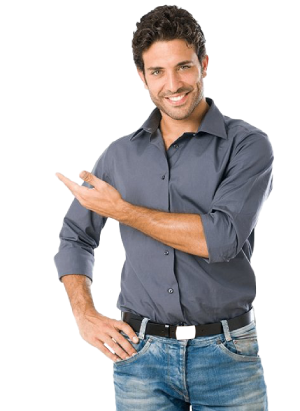
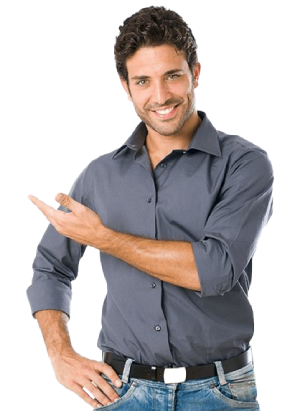
Fix png image size in the discover section

diff --git a/src/components/Discover section/0px-599px.scss b/src/components/Discover section/0px-599px.scss
@@ -6,13 +6,12 @@
     min-width: 320px;
     height: 98.792vw;
     min-height: 316.135px;
-    background: darkcyan;
     position: relative;
 
     &__brand-container {
       width: 100%;
       height: 34.718%;
-      background: rgb(0, 139, 81);
+      background: #f9f9f9;
       position: absolute;
       bottom: 0;
       left: 0;
@@ -30,7 +29,6 @@
     &__card-container {
       width: 100%;
       height: 59.657%;
-      background: darksalmon;
       position: absolute;
       top: 10.268%;
       left: 0;
@@ -41,14 +39,14 @@
     &__card-subcontainer {
       width: 188.98%;
       height: 100%;
-      background: rgb(127, 93, 141);
     }
 
     &__card-flex-container {
       width: 97.188%;
       height: 100%;
-      background: deeppink;
       margin: 0 auto;
+      display: flex;
+      justify-content: space-between;
     }
 
     &__card {
@@ -56,15 +54,15 @@
       height: 100%;
       background: #ffffff;
       border-radius: clamp(5px, 2.157vw, 15px);
-      border: 2px $c1-D solid;
+      border: 1px $c1-D solid;
       position: relative;
     }
 
     &__card-text-container {
       width: 45.757%;
-      height: 85.557%;
+      height: 80.557%;
       position: absolute;
-      top: 3.241%;
+      top: 9.025%;
       left: 7.272%;
     }
 
@@ -74,7 +72,7 @@
       font-family: $primary-font;
       font-weight: 500;
       color: $strongText;
-      font-size: clamp(16px, 3.98vw, 25px);
+      font-size: clamp(15px, 3.98vw, 25px);
       position: absolute;
       top: 0;
       left: 0;
@@ -86,16 +84,16 @@
       font-family: $primary-font;
       font-weight: 400;
       color: $lightText;
-      font-size: clamp(14px, calc(0.4em + 1.36vw), 17px);
-      line-height: 130%;
+      font-size: clamp(13px, calc(0.4em + 1.36vw), 17px);
+      line-height: 150%;
       position: absolute;
-      top: clamp(50px, 10vw, 60px);
+      top: clamp(40px, 10vw, 60px);
       left: 0;
     }
 
     &__card-button {
       width: 80.556%;
-      height: 20.521%;
+      height: 23.521%;
       background: $c1-E;
       border-radius: clamp(5px, 2.157vw, 15px);
       position: absolute;

diff --git a/src/components/Discover section/DiscoverSection.tsx b/src/components/Discover section/DiscoverSection.tsx
@@ -15,6 +15,7 @@ const DiscoverSection = () => {
             <div className="discover-section__card-container">
                 <div className="discover-section__card-subcontainer">
                     <div className="discover-section__card-flex-container">
+
                         <article className="discover-section__card">
                             <div className="discover-section__card-text-container">
                                 <h2 className="discover-section__card-title">Lorem ipsum Dolor</h2>
@@ -28,6 +29,21 @@ const DiscoverSection = () => {
                                 <img className="discover-section__card-image" src={youngMan} alt="man"/>
                             </div>
                         </article>
+
+                        <article className="discover-section__card">
+                            <div className="discover-section__card-text-container">
+                                <h2 className="discover-section__card-title">Lorem ipsum Dolor</h2>
+                                <p className="discover-section__card-paragraph">Lorem ipsum dolor amet lorem ipsum dolor amet aler</p>
+                                <div className="discover-section__card-button">
+                                    <p className="discover-section__card-button-text">All Shirts</p>
+                                </div>
+                            </div>
+                            <div className="discover-section__card-image-container">
+                                <div className="discover-section__card-image-background"></div>
+                                <img className="discover-section__card-image" src={adultMan} alt="man"/>
+                            </div>
+                        </article>
+
                     </div>
                 </div>
             </div>

diff --git a/src/components/Discover section/1025px-1920px.scss b/src/components/Discover section/1025px-1920px.scss
@@ -6,13 +6,12 @@
     max-width: 1650px;
     height: 38.969vw;
     max-height: 643px;
-    background: darkcyan;
     position: relative;
 
     &__brand-container {
       width: 100%;
       height: 49.3%;
-      background: rgb(0, 139, 81);
+      background: #f9f9f9;
       position: absolute;
       bottom: 0;
       left: 0;
@@ -30,7 +29,6 @@
     &__card-container {
       width: 100%;
       height: 66.718%;
-      background: darksalmon;
       position: absolute;
       top: 7.153%;
       left: 0;
@@ -40,14 +38,14 @@
     &__card-subcontainer {
       width: 100%;
       height: 100%;
-      background: rgb(127, 93, 141);
     }
 
     &__card-flex-container {
       width: 81.75%;
       height: 100%;
-      background: deeppink;
       margin: 0 auto;
+      display: flex;
+      justify-content: space-between;
     }
 
     &__card {
@@ -55,7 +53,7 @@
       height: 100%;
       background: #ffffff;
       border-radius: clamp(10px, 0.952vw, 15.71px);
-      border: 2px $c1-D solid;
+      border: 1px $c1-D solid;
       position: relative;
     }
 
@@ -85,8 +83,8 @@
       font-family: $primary-font;
       font-weight: 400;
       color: $lightText;
-      font-size: clamp(15px, calc(0.4em + 1vw), 17px);
-      line-height: 150%;
+      font-size: clamp(15px, calc(0.4em + .7vw), 17px);
+      line-height: 200%;
       position: absolute;
       top: 20%;
       left: 0;

diff --git a/src/components/Discover section/600px-1024px.scss b/src/components/Discover section/600px-1024px.scss
@@ -4,13 +4,12 @@
   .discover-section {
     width: 100%;
     height: 68.619vw;
-    background: darkcyan;
     position: relative;
 
     &__brand-container {
       width: 100%;
       height: 49.335%;
-      background: rgb(0, 139, 81);
+      background: #f9f9f9;
       position: absolute;
       bottom: 0;
       left: 0;
@@ -28,7 +27,6 @@
     &__card-container {
       width: 100%;
       height: 66.719%;
-      background: darksalmon;
       position: absolute;
       top: 7.153%;
       left: 0;
@@ -39,14 +37,14 @@
     &__card-subcontainer {
       width: 174.683%;
       height: 100%;
-      background: rgb(127, 93, 141);
     }
 
     &__card-flex-container {
       width: 83.154%;
       height: 100%;
-      background: deeppink;
       margin: 0 auto;
+      display: flex;
+      justify-content: space-between;
     }
 
     &__card {
@@ -54,7 +52,7 @@
       height: 100%;
       background: #ffffff;
       border-radius: clamp(9px, 1.677vw, 18px);
-      border: 2px $c1-D solid;
+      border: 1px $c1-D solid;
       position: relative;
     }
 
@@ -85,7 +83,7 @@
       font-weight: 400;
       color: $lightText;
       font-size: clamp(15px, calc(0.4em + 1.36vw), 17px);
-      line-height: 200%;
+      line-height: 150%;
       position: absolute;
       top: 20%;
       left: 0;
